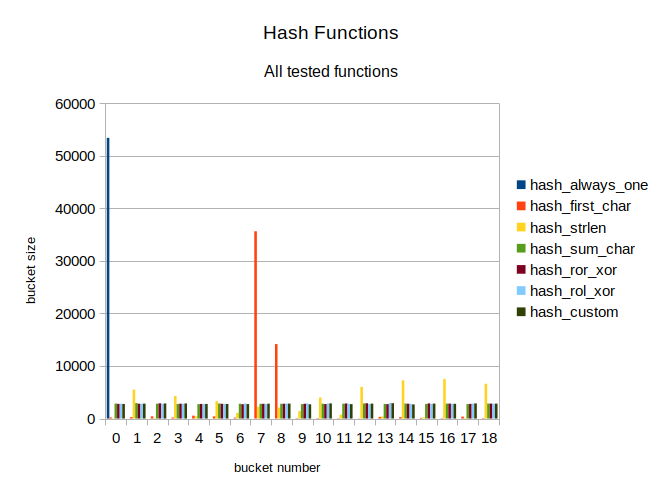
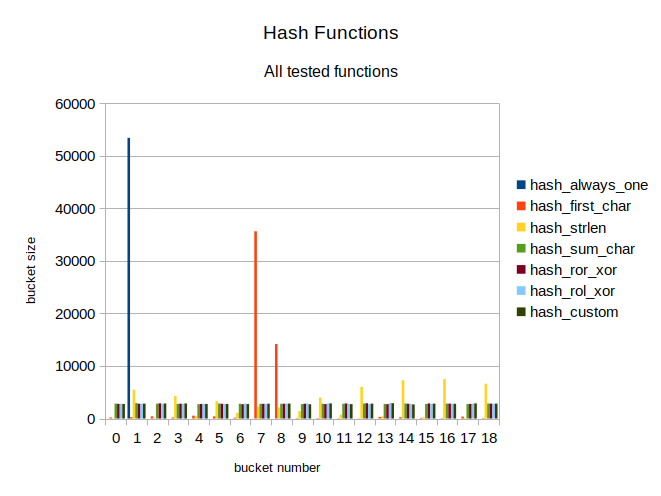
fix: incorrect behaviour of hash_always_one

Changed region(s): [[0.1513, 0.2722, 0.2118, 0.8468]]

diff --git a/src/hash_table/hashes/hash_functions.cpp b/src/hash_table/hashes/hash_functions.cpp
@@ -4,7 +4,7 @@
 
 uint64_t hash_always_one(const char* str __attribute((unused)))
 {
-    return 0;
+    return 1;
 }
 
 uint64_t hash_first_char(const char* str)

diff --git a/research/hash_functions.md b/research/hash_functions.md
@@ -106,7 +106,7 @@ long words with odd length.
 
 ## Conclusions
 The most effective hashing functions in this research are `hash_ror_xor`,
-`hash_rol_xor` and `hash_simple`. All of these functions have almost identical
+`hash_rol_xor` and `hash_custom`. All of these functions have almost identical
 value distributions close to uniform one, which makes them all the perfect
 choice for usage in hash table implementations and allows them to be used
 interchangeably.
